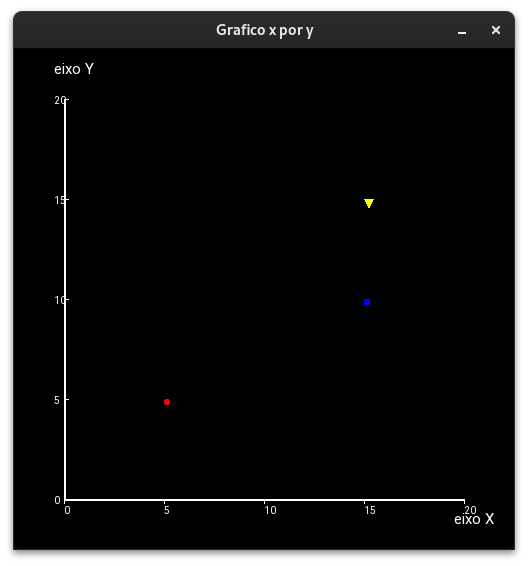
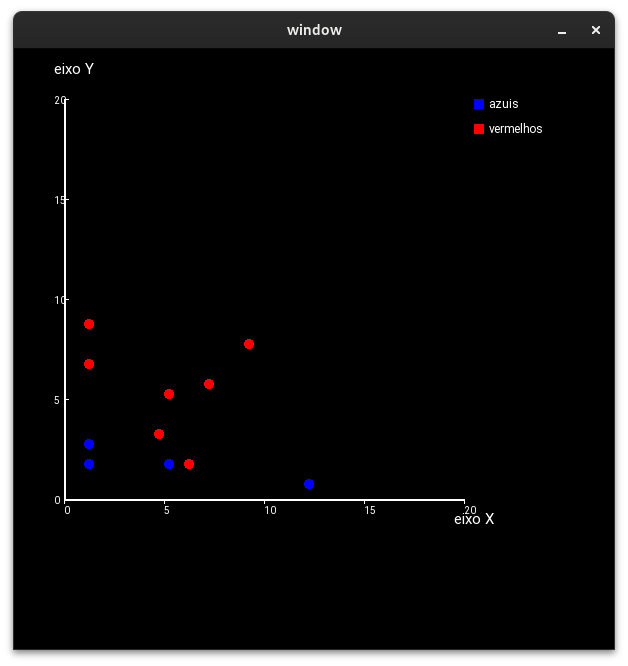
update readme: screenshots (feature: conjunto de pontos)

diff --git a/main.cpp b/main.cpp
@@ -27,13 +27,18 @@ int main() {
         {1.0f,9.0f},
         {6.0f,2.0f},
         {9.0f,8.0f},
+    };
+
+    std::vector<Point> yello_set ={
         {5.0f,5.5f},
         {7.0f,6.0f},
         {1.0f,7.0f},
     };
-    //atenção jamais chamar esse metodo dentro de um loop
+
+    //atenção jamais chamar esse metodos dentro de um loop
     scatter.addSetOfPoints(blue_set,sf::Color::Blue,"azuis");
     scatter.addSetOfPoints(red_set,sf::Color::Red,"vermelhos");
+    scatter.addSetOfPoints(yello_set,sf::Color::Yellow,"amarelos");
 
 
     while (window.isOpen()) {

diff --git a/README.md b/README.md
@@ -38,6 +38,7 @@ Aplicação gráfica simples para fins de aprendizado/relembrar a linguagem C++ 
 
 ## ScreenShots
 
+![Screenshot 10](Screenshots/screenshot9.png)
 ![Screenshot 9](Screenshots/screenshot9.png)
 ![Screenshot 1](Screenshots/screenshot1.png)
 ![Screenshot 2](Screenshots/screenshot2.png)
